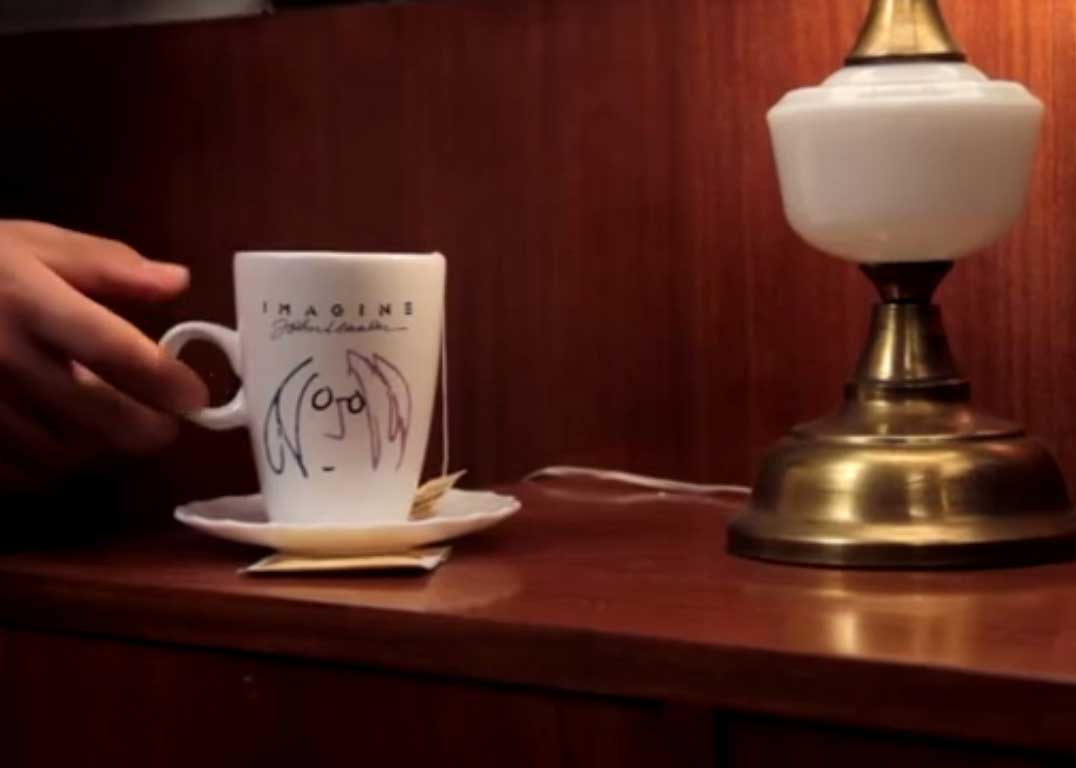
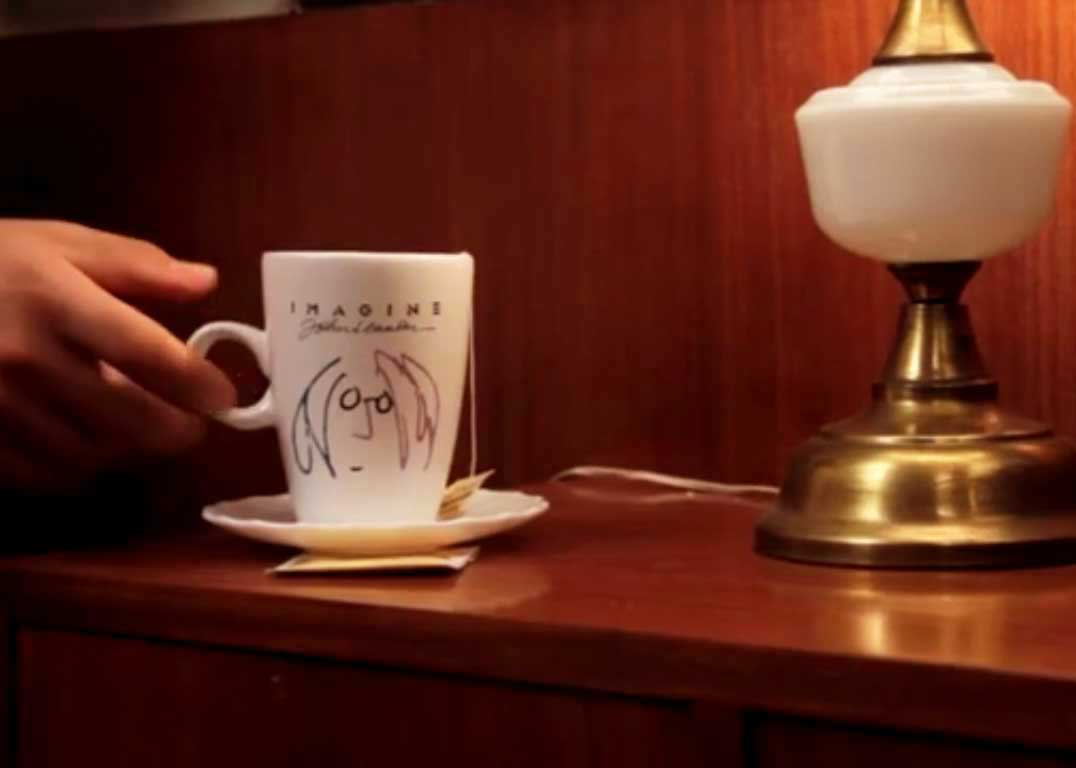
Proyectos con fotos retocadas

diff --git a/css/estilos.css b/css/estilos.css
@@ -759,6 +759,7 @@ div.proyectos_largos p{
 
 #doblefantasia_proyectos{
     background-image: url(../img/doblefantasia_proyectos.jpg);
+    background-position: left;
 }
 
 #etiqueta_izq_doblefantasia{
@@ -860,6 +861,7 @@ h6.rol_dosrenglones{
 
 #enlalluvia_proyectos{
     background-image: url(../img/enlalluvia_proyectos.jpg);
+    background-position: left;
 }
 
 #etiqueta_izq_enlalluvia{
@@ -871,6 +873,7 @@ h6.rol_dosrenglones{
 
 #voluntariado_proyectos{
     background-image: url(../img/voluntariado_proyectos.jpg);
+    background-position: center;
 }
 
 #etiqueta_izq_voluntariado{
